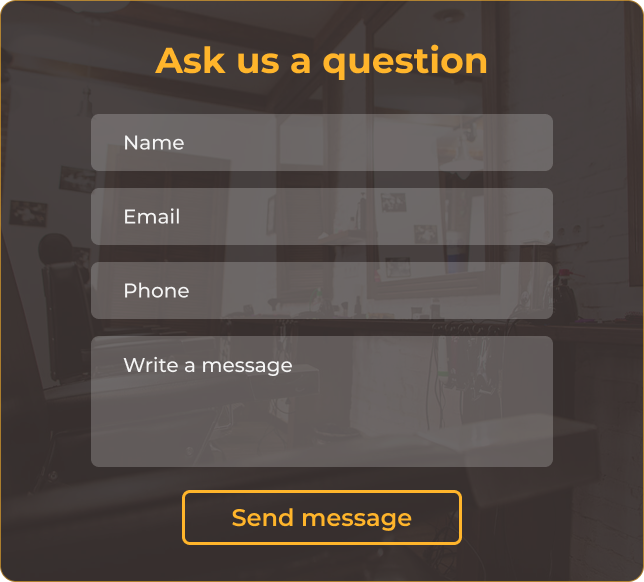
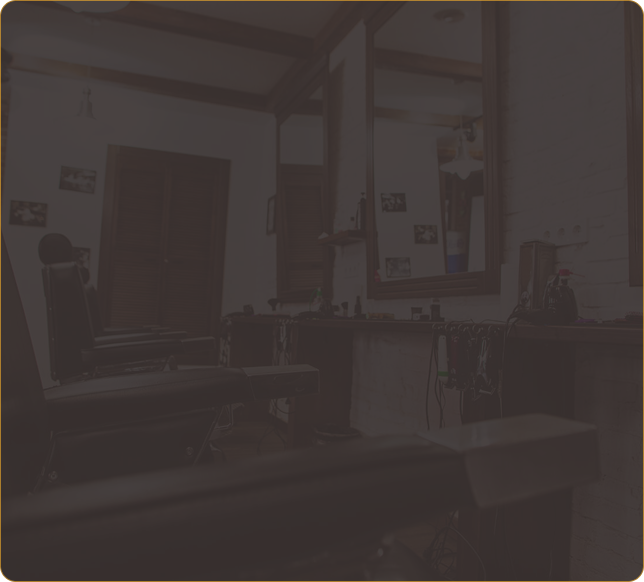
contact section done

diff --git a/src/app/components/landing/ContactSection/ContactSection.tsx b/src/app/components/landing/ContactSection/ContactSection.tsx
@@ -1,10 +1,70 @@
 import styles from './ContactSection.module.css';
+import { MapPin, Phone, Mail } from 'lucide-react';
+import Image from 'next/image';
+import Button from '../../ui/Button';
 
 export default function ContactSection() {
     return (
         <section className={styles.section}>
             <div className={styles.container}>
-                <h2>Contact Us</h2>
+                <h1>Get in Touch</h1>
+                <div className={styles.cardsContainer}>
+                    <div className={`${styles.card} ${styles.formCard}`}>
+                        <h2>Ask us a question</h2>
+                        <form className={styles.form}>
+                            <div className={styles.inputGroup}>
+                                <input type="text" placeholder="Name" className={styles.input} />
+                            </div>
+                            <div className={styles.inputGroup}>
+                                <input type="email" placeholder="Email" className={styles.input} />
+                            </div>
+                            <div className={styles.inputGroup}>
+                                <input type="tel" placeholder="Phone" className={styles.input} />
+                            </div>
+                            <div className={styles.inputGroup}>
+                                <textarea placeholder="Write a message" className={styles.textarea}></textarea>
+                            </div>
+                            <div className={styles.buttonContainer}>
+                                <Button type="submit" variant="contact">Send message</Button>
+                            </div>
+                        </form>
+                    </div>
+
+                    <div className={styles.card}>
+                        <h2>Contact details</h2>
+                        <div className={styles.detailsContent}>
+                            <div className={styles.detailsInfo}>
+                                <div className={styles.contactRow}>
+                                    <MapPin className={styles.icon} />
+                                    <span>Warszawa, Drawska 99</span>
+                                </div>
+                                <div className={styles.contactRow}>
+                                    <Phone className={styles.icon} />
+                                    <span>+48 111 222 333</span>
+                                </div>
+                                <div className={styles.contactRow}>
+                                    <Mail className={styles.icon} />
+                                    <span>fdbarber@gmail.com</span>
+                                </div>
+
+                                <div className={styles.hoursSection}>
+                                    <h3>Opening hours</h3>
+                                    <div className={styles.hoursTable}>
+                                        <div className={styles.hourRow}><span>Mon:</span> <span>8:00-18:00</span></div>
+                                        <div className={styles.hourRow}><span>Tue:</span> <span>8:00-18:00</span></div>
+                                        <div className={styles.hourRow}><span>Wed:</span> <span>8:00-18:00</span></div>
+                                        <div className={styles.hourRow}><span>Thu:</span> <span>8:00-18:00</span></div>
+                                        <div className={styles.hourRow}><span>Fri:</span> <span>8:00-18:00</span></div>
+                                        <div className={styles.hourRow}><span>Sat:</span> <span>8:00-15:00</span></div>
+                                        <div className={styles.hourRow}><span>Sun:</span> <span>Closed</span></div>
+                                    </div>
+                                </div>
+                            </div>
+                            <div className={styles.mapContainer}>
+                            </div>
+                        </div>
+                    </div>
+                </div>
             </div>
         </section>
     );

diff --git a/src/app/components/landing/ContactSection/ContactSection.module.css b/src/app/components/landing/ContactSection/ContactSection.module.css
@@ -1,10 +1,171 @@
 .section {
     padding: 80px 0;
-    background-color: var(--background);
+    background-color: var(--brown-secondary);
+    color: var(--white);
 }
 
 .container {
     max-width: 1200px;
     margin: 0 auto;
     padding: 0 24px;
+}
+
+.section h1 {
+    text-align: center;
+    color: var(--primary-yellow);
+    margin-bottom: 64px;
+    font-size: 48px;
+    font-weight: 700;
+}
+
+.cardsContainer {
+    display: flex;
+    gap: 32px;
+    justify-content: center;
+    flex-wrap: wrap;
+}
+
+.card {
+    flex: 1;
+    min-width: 450px;
+    border: 1px solid var(--primary-yellow);
+    border-radius: 16px;
+    padding: 40px;
+    background-color: transparent;
+}
+
+.formCard {
+    background-image: url('/images/contact/bg-contact.png');
+    background-size: cover;
+    background-position: center;
+    background-repeat: no-repeat;
+}
+
+.card h2 {
+    color: var(--primary-yellow);
+    text-align: center;
+    margin-bottom: 40px;
+    font-size: 32px;
+}
+
+.form {
+    display: flex;
+    flex-direction: column;
+    gap: 24px;
+    max-width: 400px;
+    margin: 0 auto;
+}
+
+.input,
+.textarea {
+    width: 100%;
+    background: rgba(255, 255, 255, 0.15);
+    border: none;
+    border-radius: 8px;
+    padding: 16px;
+    color: var(--white);
+    font-size: 16px;
+    font-family: inherit;
+}
+
+.input::placeholder,
+.textarea::placeholder {
+    color: var(--text-white-75);
+}
+
+.textarea {
+    min-height: 120px;
+    resize: vertical;
+}
+
+.buttonContainer {
+    display: flex;
+    justify-content: center;
+    width: 100%;
+    margin-top: 16px;
+}
+
+
+.detailsContent {
+    display: flex;
+    gap: 20px;
+    height: 100%;
+}
+
+.detailsInfo {
+    flex: 1;
+    display: flex;
+    flex-direction: column;
+    gap: 24px;
+}
+
+.contactRow {
+    display: flex;
+    align-items: center;
+    gap: 16px;
+    font-size: 18px;
+}
+
+.icon {
+    color: var(--primary-yellow);
+    width: 32px;
+    height: 32px;
+}
+
+.hoursSection {
+    margin-top: 20px;
+}
+
+.hoursSection h3 {
+    color: var(--primary-yellow);
+    margin-bottom: 16px;
+    font-size: 24px;
+    font-weight: 600;
+}
+
+.hoursTable {
+    display: flex;
+    flex-direction: column;
+    gap: 8px;
+}
+
+.hourRow {
+    display: flex;
+    justify-content: space-between;
+    font-size: 16px;
+    max-width: 250px;
+}
+
+.mapContainer {
+    width: 280px;
+    height: 429px;
+    background-image: url('/images/contact/map.png');
+    background-size: cover;
+    background-position: center;
+    background-repeat: no-repeat;
+    border-radius: 12px;
+}
+
+@media (max-width: 1024px) {
+    .cardsContainer {
+        flex-direction: column;
+        align-items: center;
+    }
+
+    .card {
+        width: 100%;
+        max-width: 600px;
+        min-width: auto;
+    }
+}
+
+@media (max-width: 768px) {
+    .detailsContent {
+        flex-direction: column;
+    }
+
+    .mapContainer {
+        height: 250px;
+        width: 100%;
+    }
 }

diff --git a/src/app/components/ui/Button.module.css b/src/app/components/ui/Button.module.css
@@ -69,3 +69,23 @@
         0 0 8px var(--primary-yellow),
         0 0 16px var(--primary-yellow);
 }
+
+.contact {
+    width: 280px;
+    height: 55px;
+    border-radius: 8px;
+    border: 3px solid var(--primary-yellow);
+    color: var(--primary-yellow);
+    background-color: transparent;
+    font-size: 24px;
+    font-weight: 500;
+    cursor: pointer;
+}
+
+.contact:hover {
+    box-shadow:
+        0 0 2px var(--primary-yellow),
+        0 0 4px var(--primary-yellow),
+        0 0 8px var(--primary-yellow),
+        0 0 16px var(--primary-yellow);
+}

diff --git a/src/app/components/ui/Button.tsx b/src/app/components/ui/Button.tsx
@@ -2,7 +2,7 @@ import styles from './Button.module.css';
 import React, { ButtonHTMLAttributes } from 'react';
 
 type ButtonProps = {
-    variant?: 'book-appointment' | 'portfolio' | 'gallery' | 'booking-cta';
+    variant?: 'book-appointment' | 'portfolio' | 'gallery' | 'booking-cta' | 'contact';
 } & ButtonHTMLAttributes<HTMLButtonElement>;
 
 const Button: React.FC<ButtonProps> = ({ children, variant = 'book-appointment', ...props }) => {
